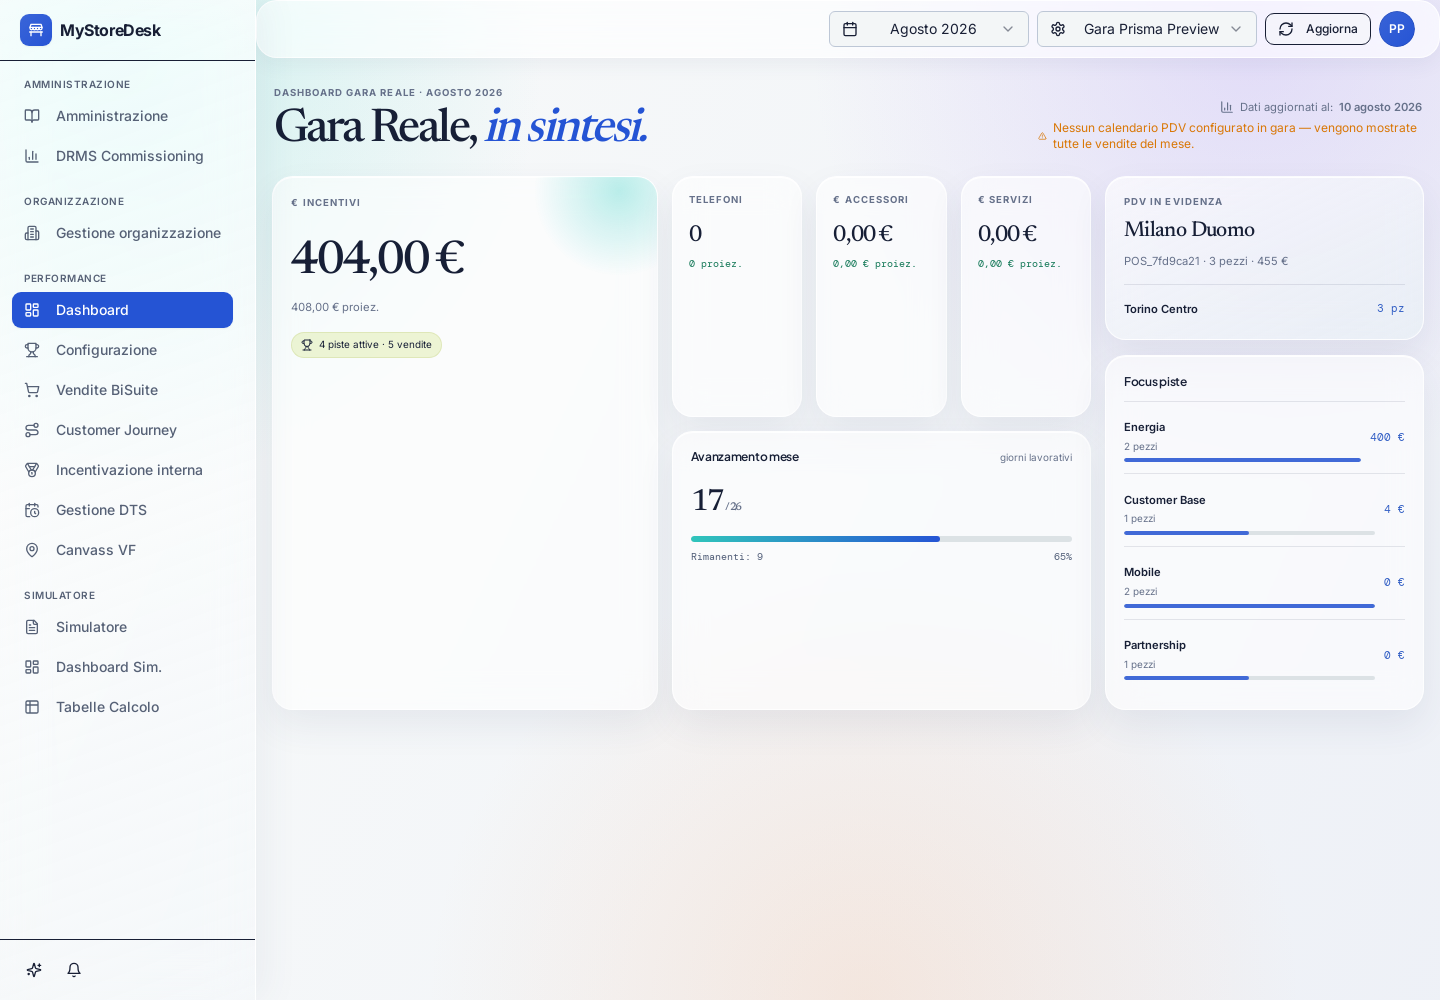
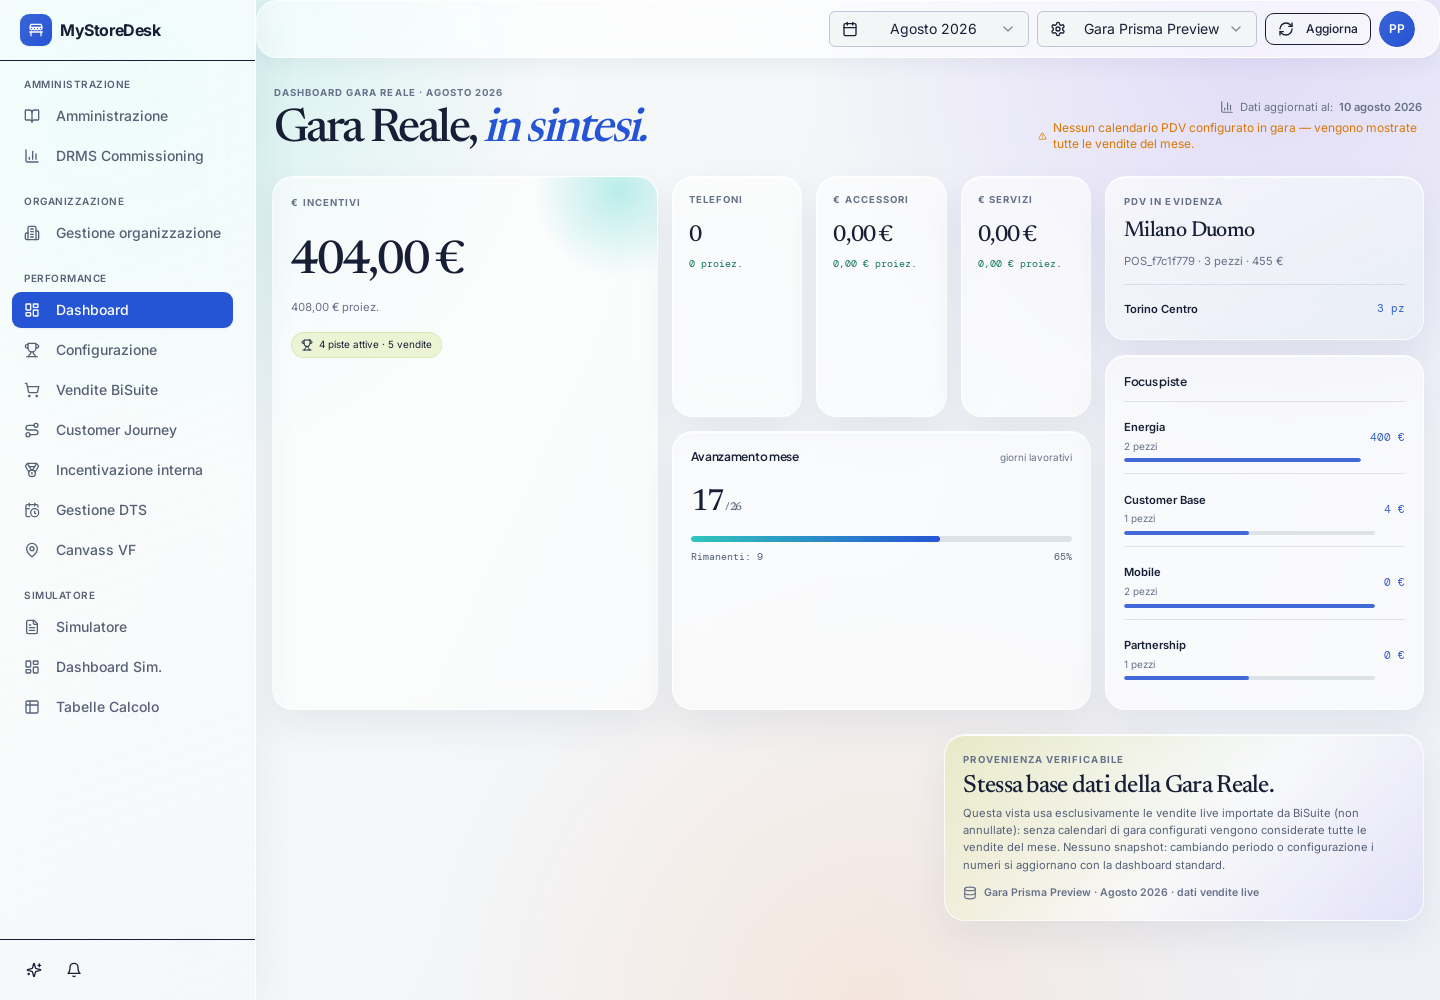
Implement Prisma light theme for dashboard and update corresponding tests and screenshots
Replit-Commit-Author: Agent

Changed region(s): [[0.6562, 0.713, 0.9375, 0.899], [0.8125, 0.248, 0.9062, 0.279]]

diff --git a/client/src/pages/DashboardGaraReale.tsx b/client/src/pages/DashboardGaraReale.tsx
@@ -63,6 +63,7 @@ import {
   Wrench,
   Play,
   Pause,
+  Database,
 } from "lucide-react";
 import * as XLSX from "xlsx";
 import jsPDF from "jspdf";
@@ -4724,6 +4725,32 @@ export default function DashboardGaraReale() {
                   )}
                 </aside>
               </section>
+            )}
+            {/* Task #454 — pannello verde "Provenienza verificabile" del mockup:
+                provenienza sempre visibile (niente toggle/toast), collegata alla
+                configurazione gara e ai dati vendite live correnti. */}
+            {isPrisma && (
+              <div className="pl-bottom" data-testid="prisma-bottom">
+                <article className="pl-pane pl-award" data-testid="prisma-award">
+                  <div className="pl-tiny">Provenienza verificabile</div>
+                  <h2>Stessa base dati della Gara Reale.</h2>
+                  <p>
+                    Questa vista usa esclusivamente le vendite live importate da BiSuite
+                    (non annullate)
+                    {mappedData.inGaraOnly && mappedData.calendarsAvailable
+                      ? ': i PDV con calendario di gara configurato contano solo le vendite nei giorni di gara, gli altri tutte le vendite del mese'
+                      : ': senza calendari di gara configurati vengono considerate tutte le vendite del mese'}
+                    . Nessuno snapshot: cambiando periodo o configurazione i
+                    numeri si aggiornano con la dashboard standard.
+                  </p>
+                  <div className="pl-db-note" data-testid="prisma-award-source">
+                    <Database className="h-3.5 w-3.5" />
+                    <span>
+                      {garaConfig?.name?.trim() || 'Configurazione gara'} · {getMonthOptions().find((o) => o.value === selectedPeriod)?.label ?? ''} · dati vendite live
+                    </span>
+                  </div>
+                </article>
+              </div>
             )}
 
             {/* Prisma Light resta intenzionalmente limitato alla composizione del

diff --git a/client/src/prisma-light.css b/client/src/prisma-light.css
@@ -357,6 +357,52 @@
     background: linear-gradient(90deg, hsl(var(--pista-ink, var(--pl-cobalt)) / 0.85), hsl(var(--pista-glow, var(--pl-cobalt)) / 0.85));
   }
 
+  /* Task #454 — pannello verde "Provenienza verificabile" del mockup:
+     gradiente green-lime → lilla, allineato a destra sotto la griglia su
+     desktop, a piena larghezza in colonna su mobile. */
+  .pl-bottom {
+    display: flex;
+    justify-content: flex-end;
+    margin-top: 0.9rem;
+  }
+  .pl-award {
+    padding: 1.15rem;
+    max-width: 30rem;
+    background: linear-gradient(135deg, hsl(69 69% 59% / 0.23), hsl(0 0% 100% / 0.54) 55%, hsl(254 100% 82% / 0.2));
+  }
+  .pl-award h2 {
+    font-family: 'Newsreader', Georgia, serif;
+    font-weight: 500;
+    font-size: 1.55rem;
+    line-height: 1.1;
+    letter-spacing: -0.045rem;
+    margin: 0.3rem 0;
+    color: hsl(var(--pl-ink));
+  }
+  .pl-award p {
+    font-size: 0.7rem;
+    line-height: 1.55;
+    color: hsl(218 18% 40%);
+    margin: 0 0 0.7rem;
+  }
+  .pl-db-note {
+    display: flex;
+    align-items: center;
+    gap: 0.4rem;
+    font-size: 0.66rem;
+    font-weight: 600;
+    color: hsl(var(--pl-soft));
+  }
+  @media (max-width: 767px) {
+    .pl-bottom {
+      justify-content: stretch;
+    }
+    .pl-award {
+      max-width: none;
+      width: 100%;
+    }
+  }
+
   /* Bottom bar mobile richiesta dopo la preview: usa le vere route abilitate
      all'utente e resta fissa sopra la safe area iOS. Header/menu mobile
      originali rimangono disponibili. */
